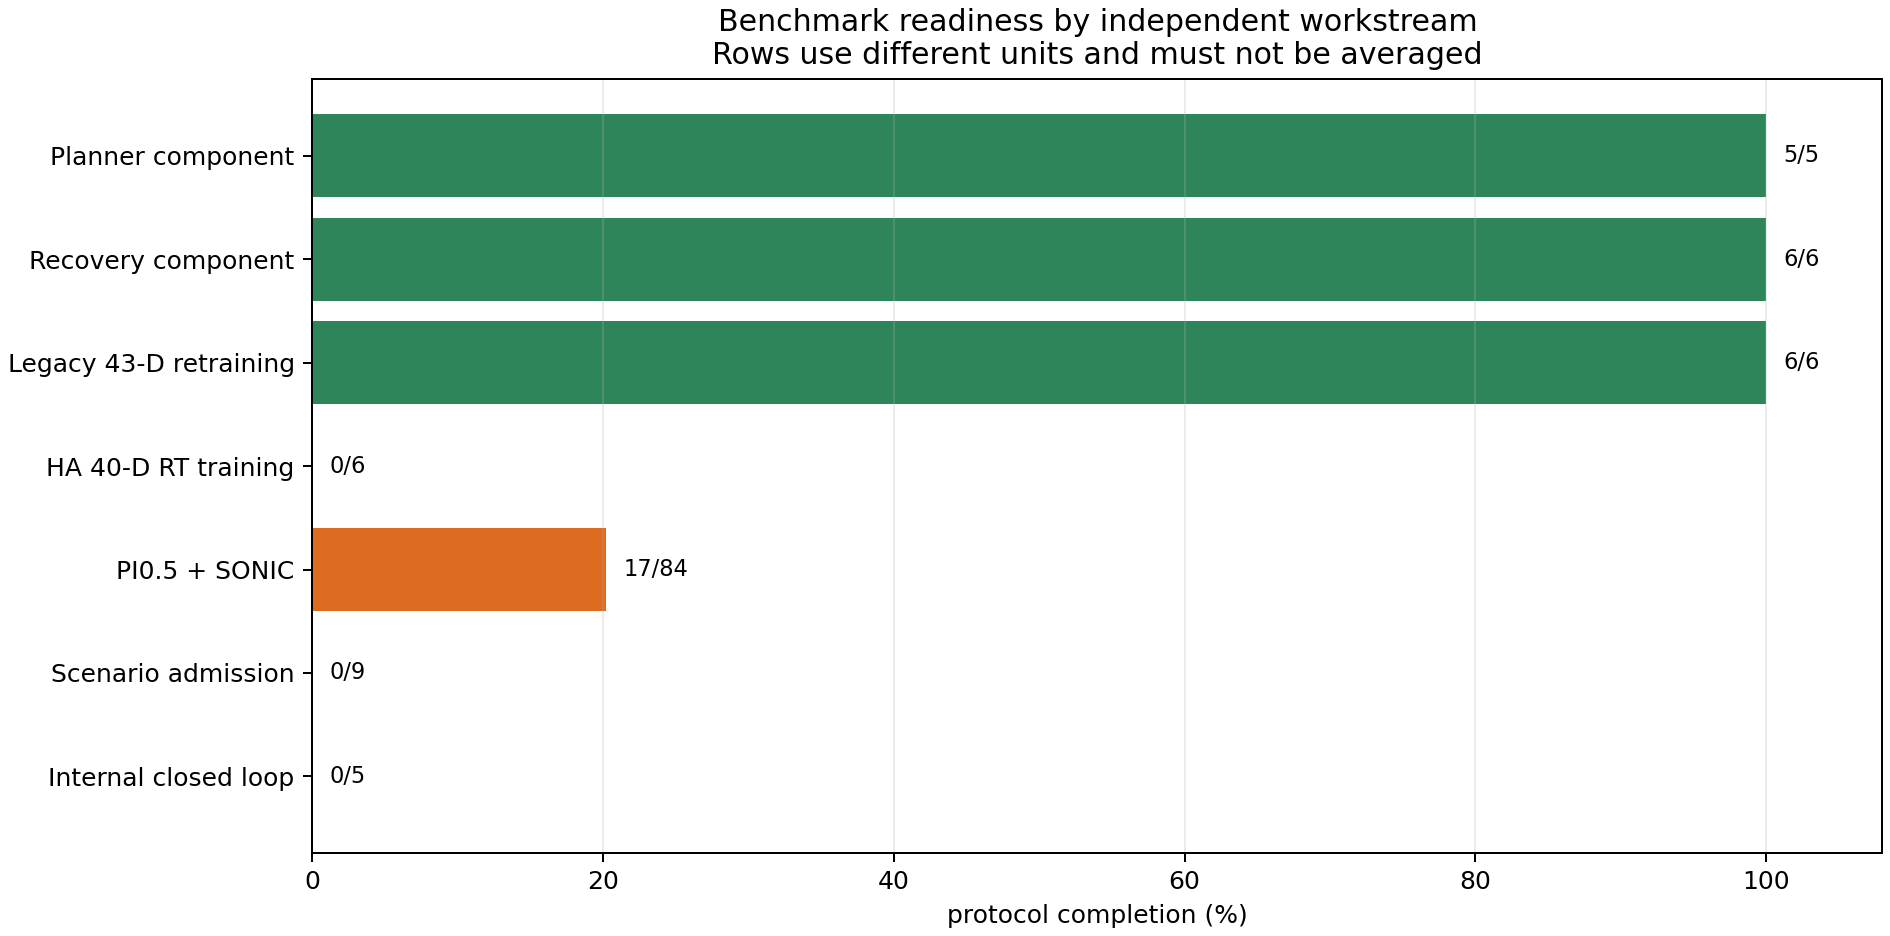
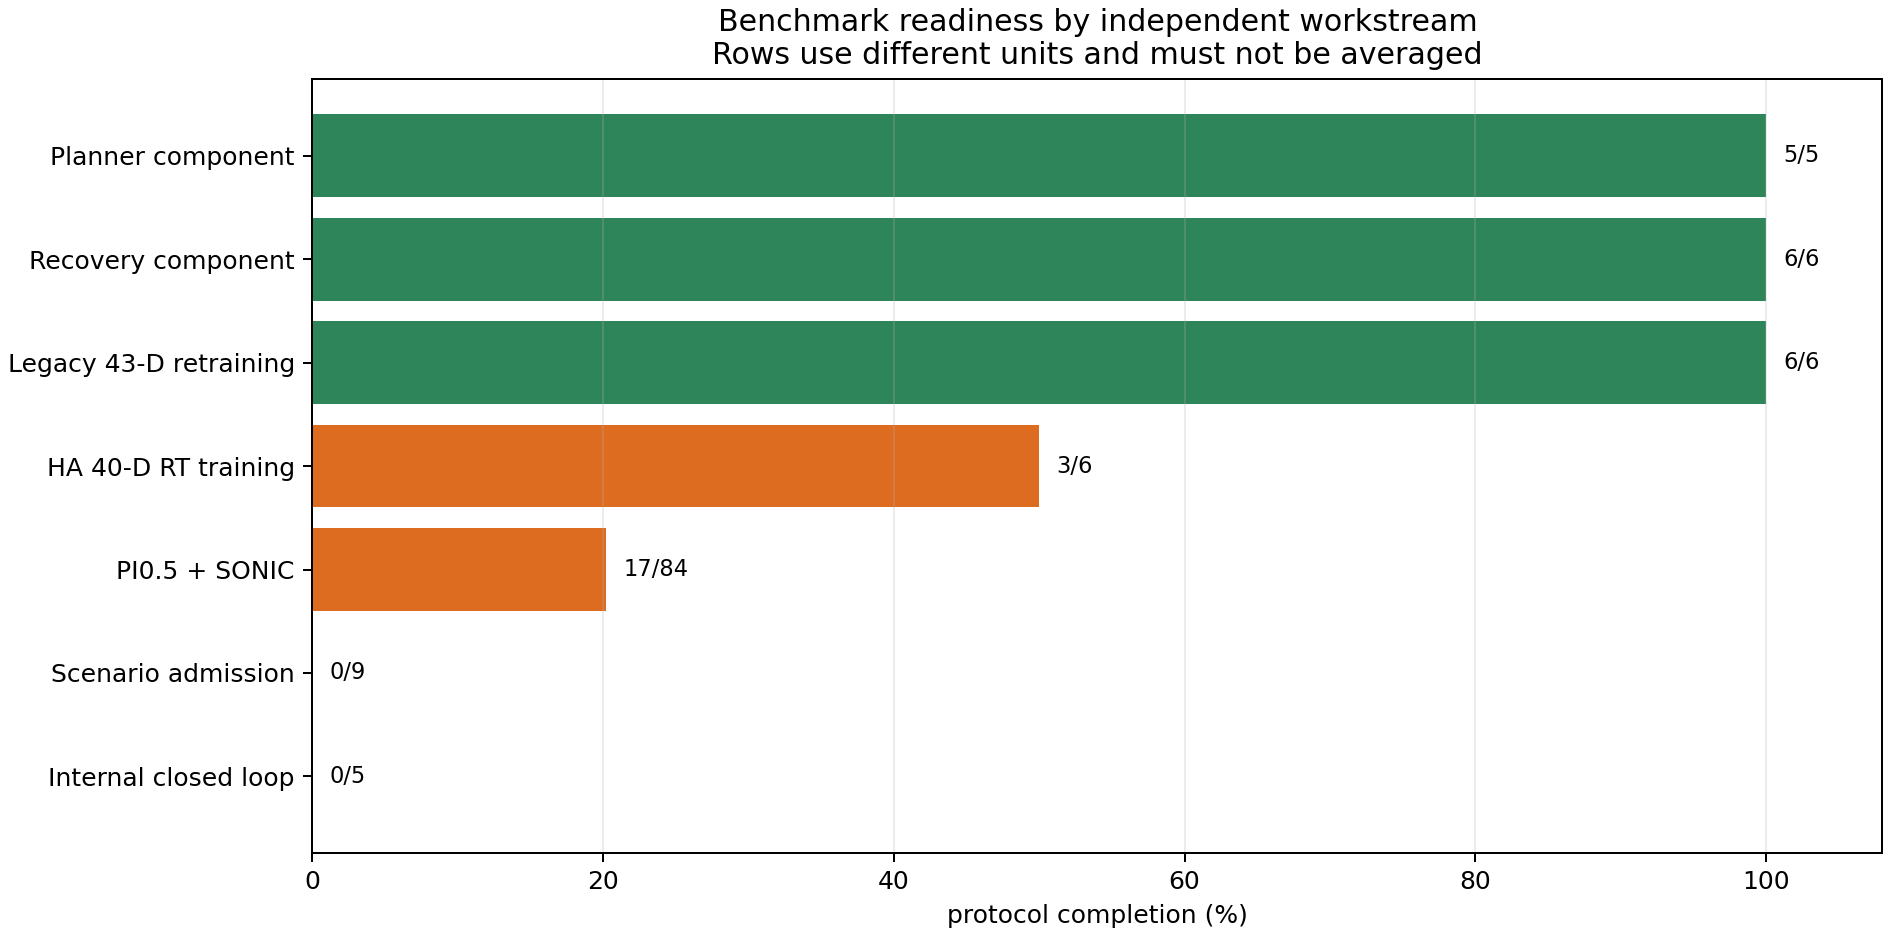
docs(benchmark): reflect partial RT publication readiness

Changed region(s): [[0.0312, 0.4338, 0.5619, 0.5577], [0.0937, 0.1549, 0.1561, 0.1859], [0.1249, 0.3718, 0.1561, 0.4028]]

diff --git a/scripts/render_benchmark_evidence.py b/scripts/render_benchmark_evidence.py
@@ -29,6 +29,9 @@ DEFAULT_ADMITTED_SUITE = (
 DEFAULT_INTERNAL_PROGRESS = (
     ROOT / "_artifacts" / "HumanoidArena" / "internal-benchmark" / "runs" / "hidden_final" / "progress.json"
 )
+DEFAULT_PRE_RECOVERY_RECEIPTS = (
+    ROOT / "results" / "benchmark" / "release" / "pre-recovery" / "receipts"
+)
 DEFAULT_OUTPUT = ROOT / "results" / "benchmark" / "readiness"
 
 
@@ -37,6 +40,7 @@ def readiness_rows(
     checkpoint_lock: dict[str, Any] | None = None,
     admitted_suite: dict[str, Any] | None = None,
     internal_progress: dict[str, Any] | None = None,
+    rt_release_receipts: list[dict[str, Any]] | None = None,
 ) -> list[dict[str, Any]]:
     matrix = (humanoid or {}).get("matrix", {})
     cells_complete = int(matrix.get("cells_complete", 0))
@@ -53,6 +57,25 @@ def readiness_rows(
             for method in ("gr00t_st_rt", "gr00t_str_rt")
             for seed in (0, 1, 2)
         )
+    else:
+        expected_ids = {
+            f"{family}-seed-{seed}"
+            for family in ("subtask_rt", "recovery_rt")
+            for seed in (0, 1, 2)
+        }
+        published_ids = {
+            receipt.get("artifact_id")
+            for receipt in (rt_release_receipts or [])
+            if receipt.get("artifact_id") in expected_ids
+            and receipt.get("remote_manifest_verified") is True
+            and isinstance(receipt.get("published_revision"), str)
+            and len(receipt["published_revision"]) == 40
+            and isinstance(receipt.get("manifest_sha256"), str)
+            and len(receipt["manifest_sha256"]) == 64
+            and isinstance(receipt.get("receipt_sha256"), str)
+            and len(receipt["receipt_sha256"]) == 64
+        }
+        rt_complete = len(published_ids)
     scenarios_complete = sum(
         scenario.get("admission", {}).get("status") == "admitted"
         for task in (admitted_suite or {}).get("tasks", [])
@@ -130,6 +153,15 @@ def _load_optional(path: Path) -> dict[str, Any] | None:
     if not path.is_file():
         return None
     return json.loads(path.read_text(encoding="utf-8"))
+
+
+def _load_receipts(path: Path) -> list[dict[str, Any]]:
+    if not path.is_dir():
+        return []
+    return [
+        json.loads(receipt.read_text(encoding="utf-8"))
+        for receipt in sorted(path.glob("*.json"))
+    ]
 
 
 def _write_readiness(rows: list[dict[str, Any]], output_dir: Path) -> None:
@@ -440,6 +472,9 @@ def main() -> int:
     parser.add_argument("--checkpoint-lock", type=Path, default=DEFAULT_CHECKPOINT_LOCK)
     parser.add_argument("--admitted-suite", type=Path, default=DEFAULT_ADMITTED_SUITE)
     parser.add_argument("--internal-progress", type=Path, default=DEFAULT_INTERNAL_PROGRESS)
+    parser.add_argument(
+        "--pre-recovery-receipts", type=Path, default=DEFAULT_PRE_RECOVERY_RECEIPTS
+    )
     parser.add_argument("--output-dir", type=Path, default=DEFAULT_OUTPUT)
     args = parser.parse_args()
 
@@ -456,7 +491,14 @@ def main() -> int:
     checkpoint_lock = _load_optional(args.checkpoint_lock.resolve())
     admitted_suite = _load_optional(args.admitted_suite.resolve())
     internal_progress = _load_optional(args.internal_progress.resolve())
-    rows = readiness_rows(humanoid, checkpoint_lock, admitted_suite, internal_progress)
+    rt_release_receipts = _load_receipts(args.pre_recovery_receipts.resolve())
+    rows = readiness_rows(
+        humanoid,
+        checkpoint_lock,
+        admitted_suite,
+        internal_progress,
+        rt_release_receipts,
+    )
     _write_readiness(rows, output_dir)
     _render_readiness(rows, output_dir / "benchmark_readiness.png")
     if retraining is not None:

diff --git a/tests/test_benchmark_evidence.py b/tests/test_benchmark_evidence.py
@@ -69,3 +69,37 @@ def test_readiness_uses_audited_dynamic_completion_inputs() -> None:
     assert by_name["HA 40-D RT training"]["completed"] == 6
     assert by_name["Scenario admission"]["completed"] == 9
     assert by_name["Internal closed loop"]["completed"] == 5
+
+
+def test_readiness_counts_verified_partial_rt_publications() -> None:
+    receipts = [
+        {
+            "artifact_id": f"subtask_rt-seed-{seed}",
+            "published_revision": "a" * 40,
+            "manifest_sha256": "b" * 64,
+            "receipt_sha256": "c" * 64,
+            "remote_manifest_verified": True,
+        }
+        for seed in range(3)
+    ]
+    receipts.extend(
+        [
+            {
+                "artifact_id": "subtask-rt-dataset",
+                "published_revision": "d" * 40,
+                "manifest_sha256": "e" * 64,
+                "receipt_sha256": "f" * 64,
+                "remote_manifest_verified": True,
+            },
+            {
+                "artifact_id": "recovery_rt-seed-0",
+                "published_revision": "short",
+                "manifest_sha256": "b" * 64,
+                "receipt_sha256": "c" * 64,
+                "remote_manifest_verified": True,
+            },
+        ]
+    )
+    rows = EVIDENCE.readiness_rows(None, rt_release_receipts=receipts)
+    by_name = {row["workstream"]: row for row in rows}
+    assert by_name["HA 40-D RT training"]["completed"] == 3
